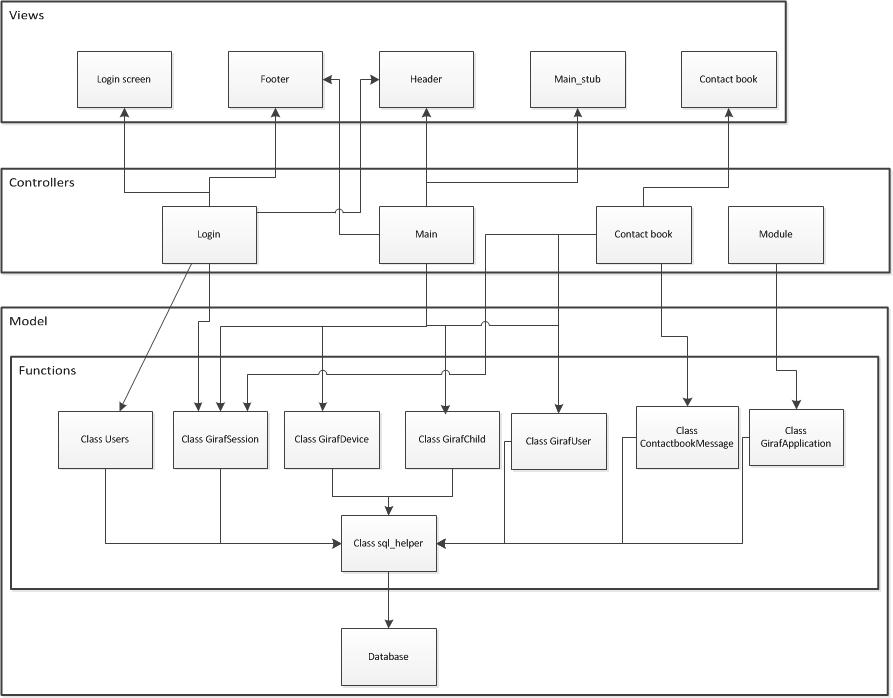
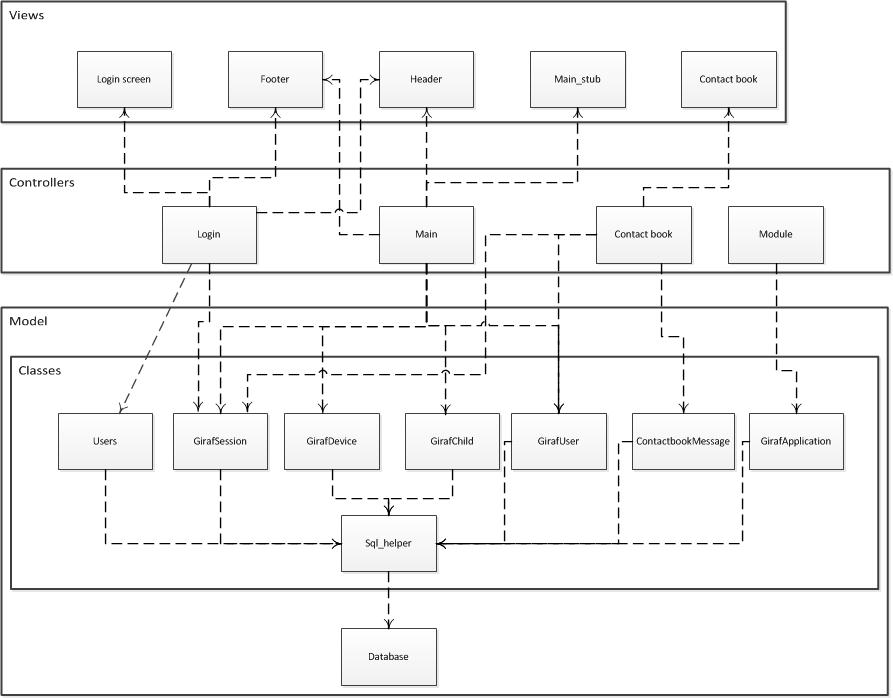
added til implementation oversigt MVC dog ikke færdig

diff --git a/tex/implementation/chapter_modelviewcontroller.tex b/tex/implementation/chapter_modelviewcontroller.tex
@@ -1,4 +1,13 @@
 \chapter{Model, view and controller}
+In this chapter we first give an overview of our implementation of Model-view-controller with its call dependencies. After the overview is a more detailed explanation of first the model, then the view and in the end the controller.  
 
+In Figure \vref{fig:overview} is an overview how our model-view controller framework/architecture has been implemented in our application where the arrows is a call dependency. It is an incomplete representation for the program because not all Classes have been represented in the figure, however, all the connections between the controller and model has been represented. 
 
-\section{Overview}
+In the figure the Model's seven classes, sql\_helper excluded, are all used by at least one controller while the sql\_helper is used by the other classes to relay SQL commands to the database. The model will be further explained in section VREF{???????????}. We have implemented five views which corresponds to user interfaces for the Login and the contact book, the viewer will be explained further in section VREF{???????}. Four controllers has been implemented which function will be explain in section VREF{???????????}.
+
+\begin{figure}[ht]
+	\centering
+		\includegraphics[width=0.80\textwidth]{img/overview.jpg}
+	\caption{model-view-controller overview}
+	\label{fig:overview}
+\end{figure}

diff --git a/tex/implementation/overview_implementation.tex b/tex/implementation/overview_implementation.tex
@@ -1,0 +1,11 @@
+\section{Implementation of Model-view-controller}
+In Figure \vref{fig:overview} is an overview how our model-view controller framework/architecture has been implemented in our application where the arrows is a call dependency. It is an incomplete representation for the program because not all Classes have been represented in the figure, however, all the connections between the controller and model has been represented. 
+
+In the figure the Model's seven classes, sql_helper excluded, are all used by at least one controller while the sql_helper is used by the other classes to relay SQL commands to the database. The model will be further explained in section VREF{???????????}. We have implemented five views which corresponds to user interfaces for the Login and the contact book, the viewer will be explained further in section VREF{???????}. Four controllers has been implemented which function will be explain in section VREF{???????????}.
+
+\begin{figure}[ht]
+	\centering
+		\includegraphics[width=0.80\textwidth]{img/overview.jpg}
+	\caption{model-view-controller overview}
+	\label{fig:overview}
+\end{figure}

diff --git a/tex/overview_implementation.tex b/tex/overview_implementation.tex
@@ -1,0 +1,11 @@
+\section{Implementation of Model-view-controller}
+In Figure \vref{fig:overview} is an overview how our model-view controller framework/architecture has been implemented in our application where the arrows is a call dependency. It is an incomplete representation for the program because not all Classes have been represented in the figure, however, all the connections between the controller and model has been represented. 
+
+In the figure the Model's seven classes, sql_helper excluded, are all used by at least one controller while the sql_helper is used by the other classes to relay SQL commands to the database. The model will be further explained in section VREF{???????????}. We have implemented five views which corresponds to user interfaces for the Login and the contact book, the viewer will be explained further in section VREF{???????}. Four controllers has been implemented which function will be explain in section VREF{???????????}.
+
+\begin{figure}[ht]
+	\centering
+		\includegraphics[width=0.80\textwidth]{img/overview.jpg}
+	\caption{model-view-controller overview}
+	\label{fig:overview}
+\end{figure}

diff --git a/tex/chapter_modelviewcontroller.tex b/tex/chapter_modelviewcontroller.tex
@@ -1,1 +1,3 @@
 \chapter{Model, view and controller}
+In this chapter we first give an overview of our implementation of Model-view-controller with its call dependencies. After the overview is a more detailed explanation of first the model, then the view and in the end the controller.  
+

diff --git a/master.tex b/master.tex
@@ -59,6 +59,7 @@
 
 \input{tex/design/chapter_designl}
 \input{tex/design/componentArchitecture}
+\input{tex/design/design_modelviewcontroller}
 %%\input{tex/design/android}
 \input{tex/design/designconclusion}
 

diff --git a/tex/design/design_modelviewcontroller.tex b/tex/design/design_modelviewcontroller.tex
@@ -1,0 +1,1 @@
+\section{model-view-controller framework}

diff --git a/tex/design_modelviewcontroller.tex b/tex/design_modelviewcontroller.tex
@@ -1,0 +1,1 @@
+\section{model-view-controller framework}
